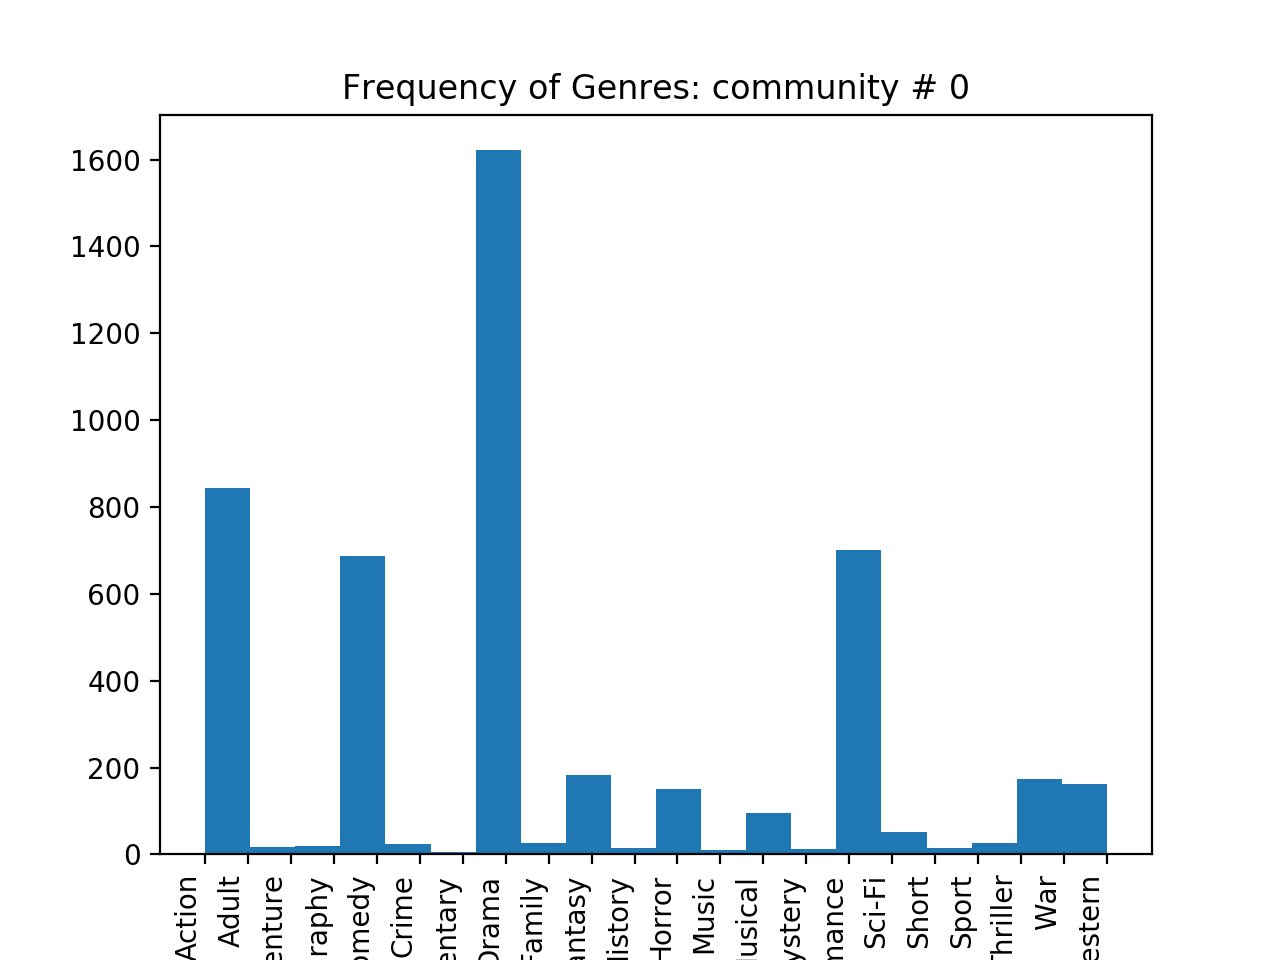
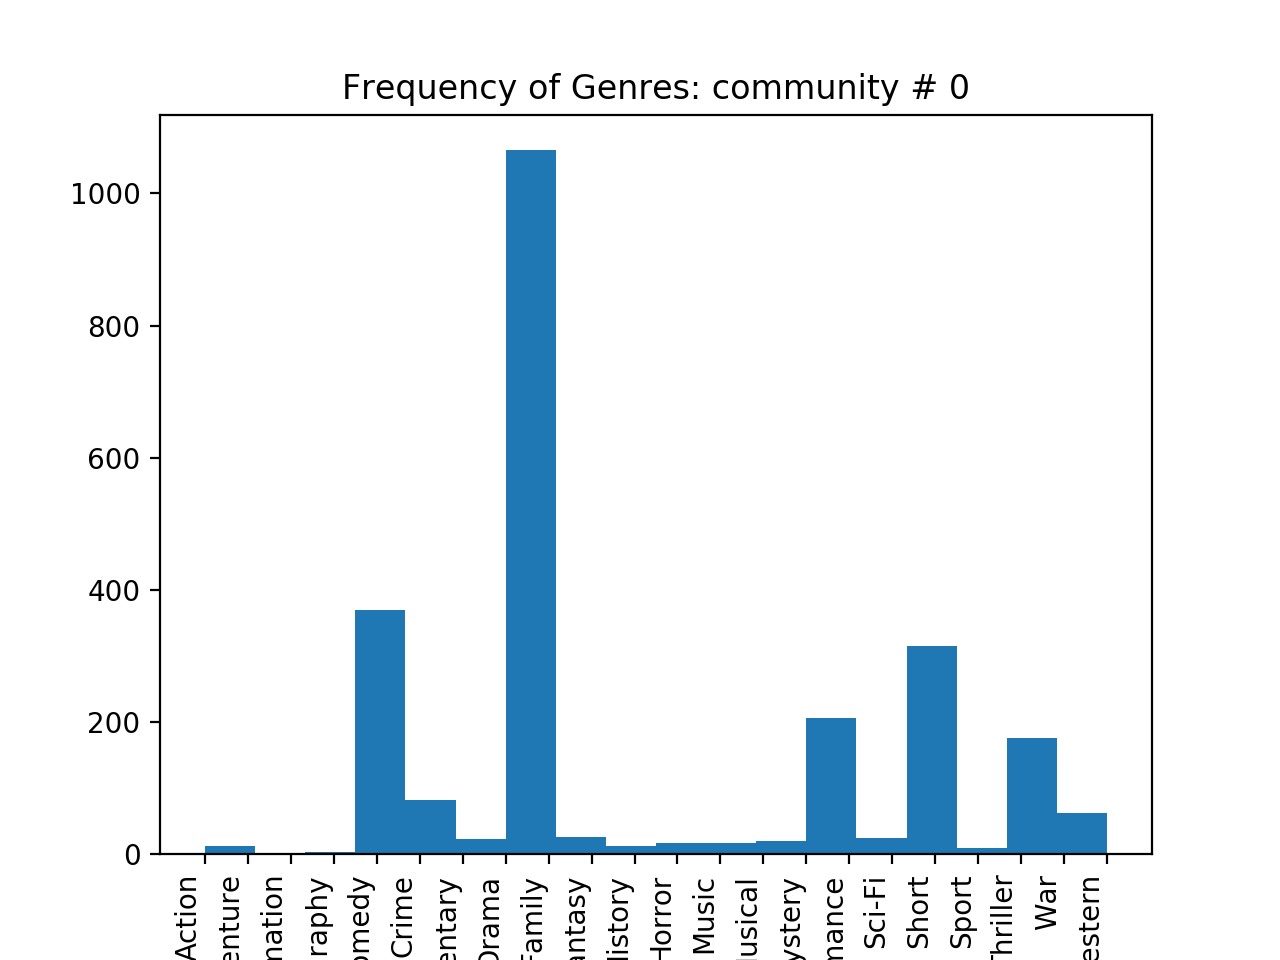
New pictures

diff --git a/Project_4/src/Q8.py b/Project_4/src/Q8.py
@@ -54,6 +54,7 @@ for line in data:
 with open('../output/community.txt', 'r') as f:
     comms = f.readlines()
 
+np.random.seed(seed=10)
 selected_comms = np.random.choice(comms, 10)
 
 for m in comms:

diff --git a/Project_4/Project4_Report.md b/Project_4/Project4_Report.md
@@ -45,16 +45,71 @@
     ![c1](./plots/Q7_1.png)
     The most dominant genre in this community is Drama
 
-
+2.
+    ![c1](./plots/Q7_2.png)
+    The most dominant genre in this community is Short
+3.
+    ![c1](./plots/Q7_3.png)
+    The most dominant genre in this community is Documentary
+4.
+    ![c1](./plots/Q7_4.png)
+    The most dominant genre in this community is Drama and Documentary
+5.
+    ![c1](./plots/Q7_5.png)
+    The most dominant genre in this community is Adult
+6.
+    ![c1](./plots/Q7_6.png)
+    The most dominant genre in this community is Documentary
+7.
+    ![c1](./plots/Q7_7.png)
+    The most dominant genre in this community is Short
+8.
+    ![c1](./plots/Q7_8.png)
+    The most dominant genre in this community is Musical
+9.
+    ![c1](./plots/Q7_9.png)
+    The most dominant genre in this community is Short
+10.
+    ![c1](./plots/Q7_10.png)
+    The most dominant genre in this community is Short
 ### Question 8
 
 #### (a)
+1. **Drama**
+2. **Short**
+3. **Documentary**
+4. **Drama and Documentary**
+5. **Adult**
+6. **Documentary**
+7. **Short**
+8. **Musical**
+9. **Short**
+10. **Short**
 
+The most dominant genre out of these 10 communities is Drama.
 #### (b)
 
-#### (c)
+1. **Family**, score: 43.70
+2. **Short**, score: 9.53
+3. **Romance**, score: 58.36
+4. **History**, score: 28.22
+5. **Adult**, score: 69.64
+6. **Adventure**, score: 75.70
+7. **Romance**, score: 2.49
+8. **Musical**, score: 248.8
+9. **Short**, score: 5.59
+10. **Short**, score: 9.54
 
-1. Action, score: 95.36
+
+The most dominant genre calculated using the scoring function are different from the most frequenty genre by coount. The reason is that, the normalization used in the scoring function removes the bias. For exmple, Drama is usually a very dominant genre. So many movies in the community have the same Drama genre. Therefore, it is not intuitive to compare the count directly. So the scoring function is a better indication of the dominant genre since the frequency is normalized. 
+
+#### (c)
+ ![c1](./plots/Q7_11.png)
+    In terms of frequency, the four genre share the same count. The most dominant genre in this community is Short and the score is 8.48
+
+![c1](./plots/Q8c.png)
+
+
 
 
 ## 2.3 Neighborhood analysis of movies
